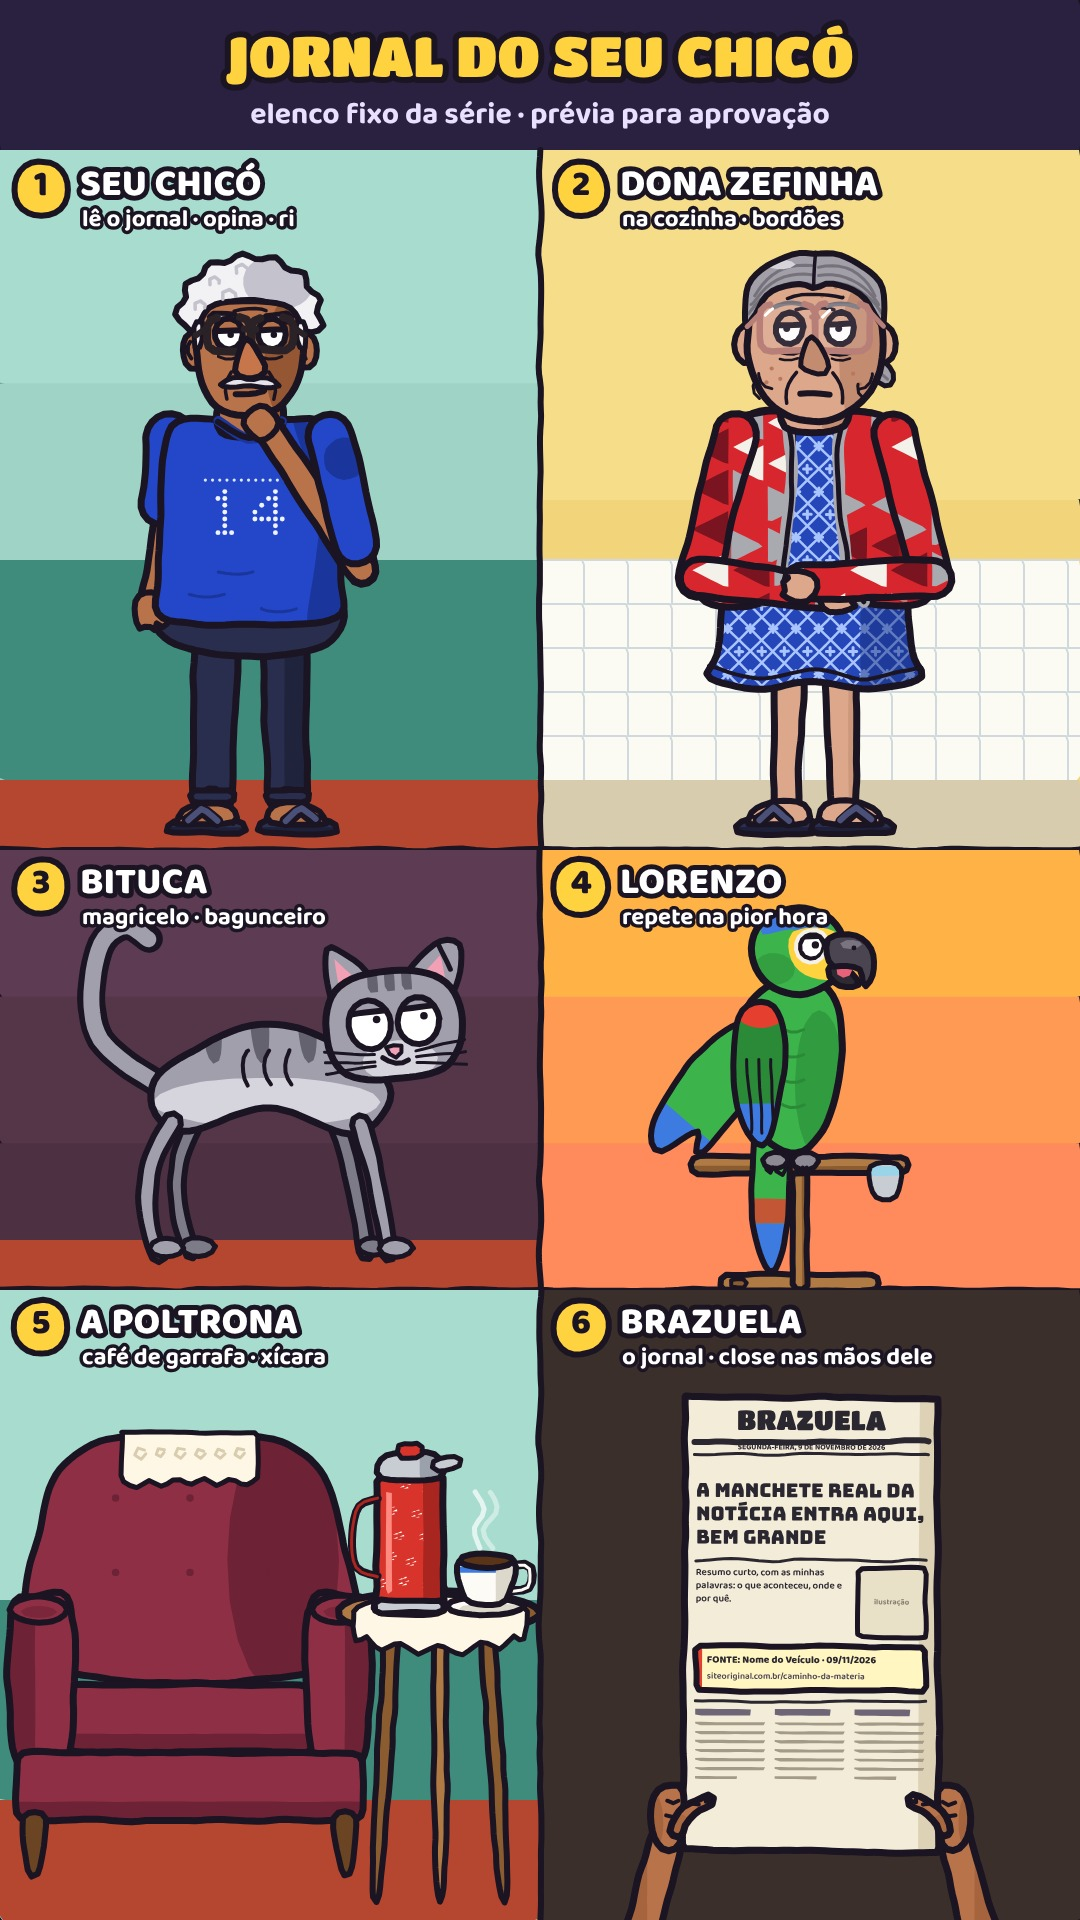
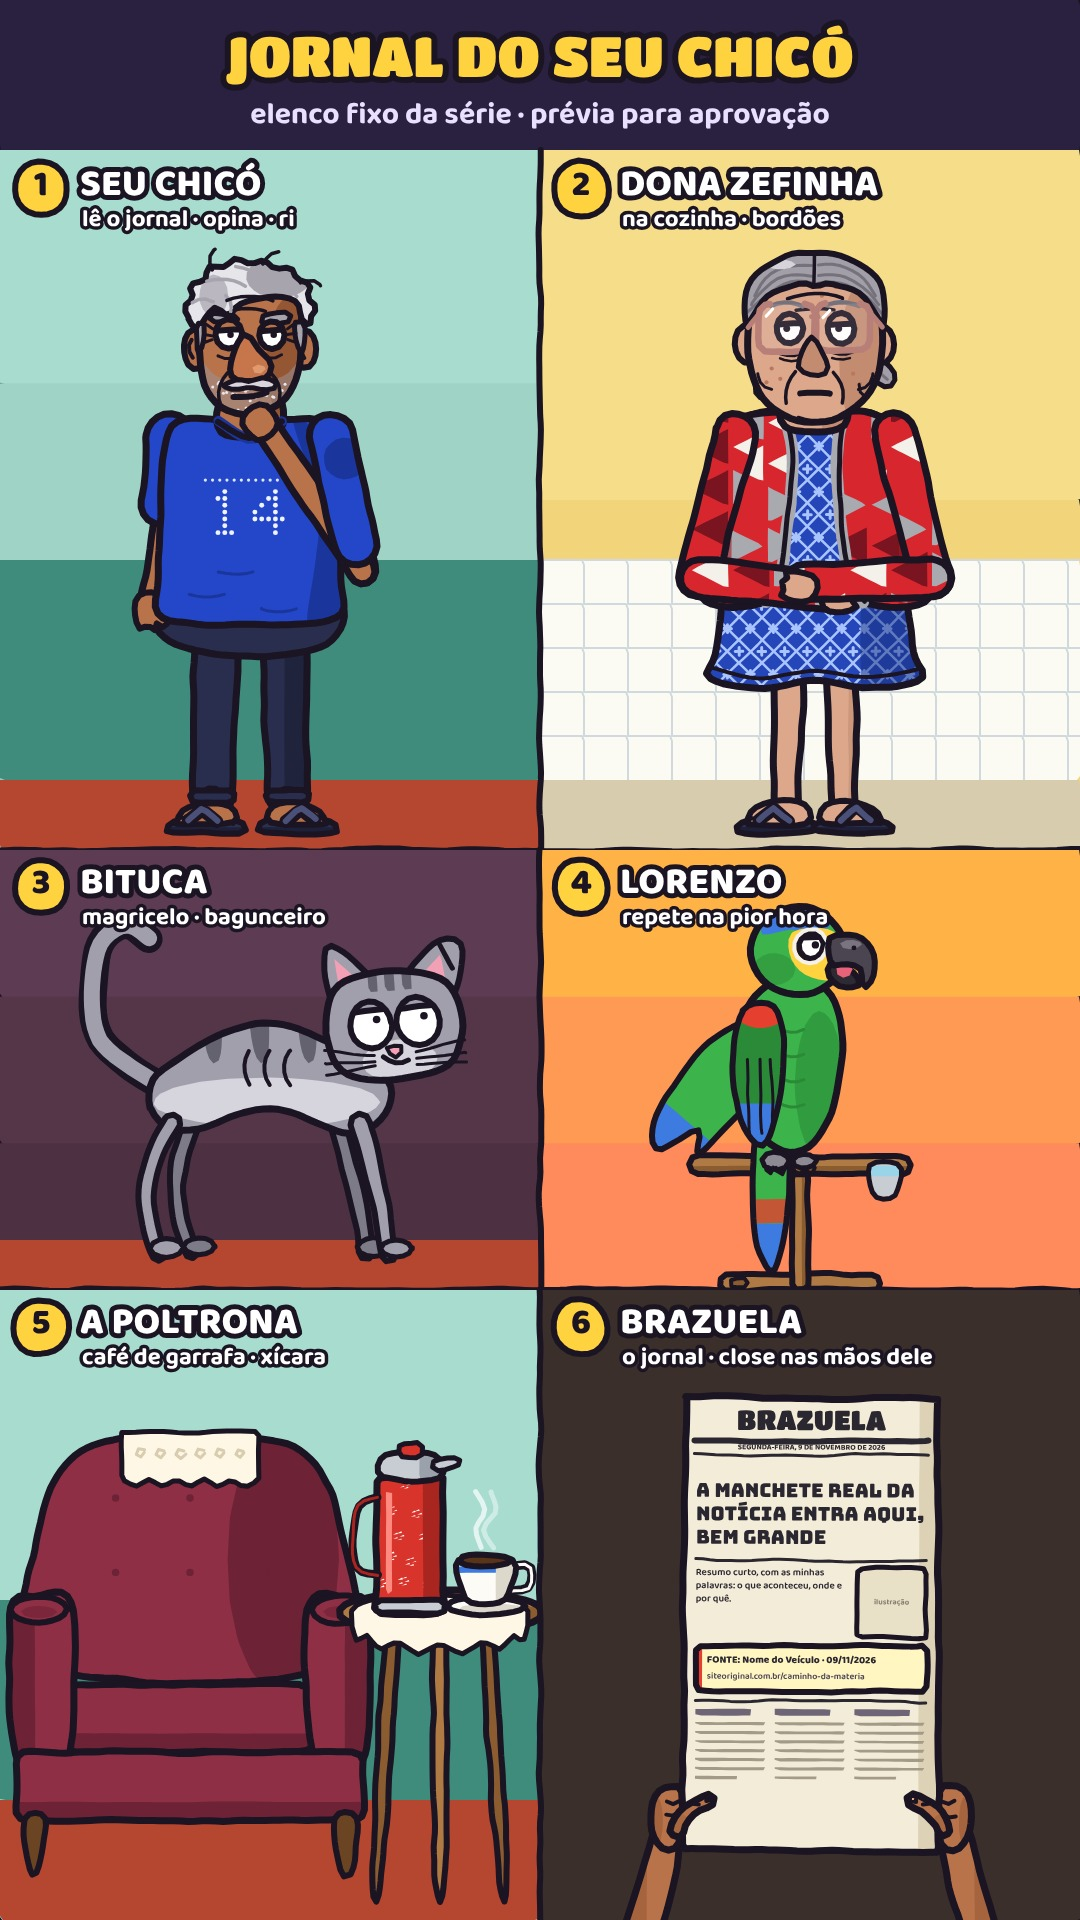
Seu Chicó redrawn from his photo: tousled grey hair, grey stubble, big nose, squinting smile
Claude-Session: https://claude.ai/code/session_01Vj4AmTyz2VXWMZUhwj9hEg

diff --git a/jornal/cast.js b/jornal/cast.js
@@ -6,8 +6,8 @@ import { INK, g, push, pop, translate, rotate, scale, shape, fillOnly, stroke, e
 
 export const PAL = {
   white: '#ffffff', mouthIn: '#4a1a2a', tongue: '#e8637a',
-  // Seu Chicó: moreno, cabelo branco cacheado, camiseta azul "14", calça azul-marinho
-  cSkin: '#b8734a', cSkinS: '#955733', cNose: '#c7764c', nail: '#e8b090', hairC: '#f2f1f4', hairCS: '#c4c2cc', stacheC: '#e6e3ea',
+  // Seu Chicó: moreno, cabelo grisalho desgrenhado, barba por fazer, camiseta azul "14", calça azul-marinho
+  cSkin: '#b8734a', cSkinS: '#955733', cNose: '#c7764c', nail: '#e8b090', hairC: '#e6e5ea', hairCS: '#a7a4ae', stacheC: '#d9d6de', stubble: '#9a8f92',
   shirt: '#2347c8', shirtS: '#1a369c', pants: '#2a2e4e', pantsS: '#1d2038', frame: '#2a2226',
   flip: '#2fb37a', flipS: '#1f8a5b', flipN: '#2c3050', flipNS: '#1d2038', strapN: '#4a5078', strap: '#f4f1ea', gold: '#e2b33c', goldS: '#b98a1f',
   // Dona Zefinha: pele morena clara, cabelo grisalho curtinho amarrado pra trás, vestido azul de treliça, casaco vermelho geométrico
@@ -113,7 +113,7 @@ function rugas(y0, wide = 1) {
   stroke(arc(0, y0 - 50, 30 * wide, 6, Math.PI * 1.2, Math.PI * 1.8, 10), 3.5);
 }
 
-// —— 1. SEU CHICÓ: cabelo branco cacheado, óculos de armação escura, bigodinho branco, camiseta azul com "14" pontilhado,
+// —— 1. SEU CHICÓ: cabelo grisalho desgrenhado, barba por fazer grisalha, narigão, sorriso de olho apertado (óculos só com P.glasses), camiseta azul com "14" pontilhado,
 //    calça social azul-marinho e chinelo de dedo. Gesto da casa: a mão no queixo, pensando na notícia ——
 // P: { x, y, s, t, face, sit, armL, armR (com e: cotovelo), mouth, look, lid, brow, tilt, paper, closed }
 export function chico(P) {
@@ -151,39 +151,46 @@ export function chico(P) {
   pop();
   shape(spline([[-44, T - 6], [0, T + 18], [44, T - 6]], false, 8), { closed: false, lw: 10, line: PAL.shirtS, fill: null });
   stroke(spline([[-44, T - 6], [0, T + 18], [44, T - 6]], false, 8), 6);
-  // cabeça
+  // cabeça (pela foto: cabelo grisalho desgrenhado, barba por fazer grisalha, narigão, sorriso de olhinho apertado)
   push(); translate(0, T - 30); rotate(P.tilt ?? 0);
-  for (const sx of [-1, 1]) shape(ell(sx * 78, -74, 17, 26, 16), { fill: PAL.cSkin, lw: 6, shade: () => stroke(arc(sx * 80, -74, 7, 12, Math.PI * .6, Math.PI * 1.4, 6), 4) });
-  shape(spline([[-76, -110], [-70, -170], [0, -186], [70, -170], [76, -110], [70, -40], [44, 4], [0, 16], [-44, 4], [-70, -40]]), {
-    fill: PAL.cSkin, lw: 7, shade: () => { fillOnly(ell(56, -60, 36, 90, 24), PAL.cSkinS, { boil: .4 }); }
+  const sm0 = (P.mouth && P.mouth.sm) ?? .5;
+  for (const sx of [-1, 1]) shape(ell(sx * 76, -76, 18, 28, 16), { fill: PAL.cSkin, lw: 6, shade: () => stroke(arc(sx * 78, -76, 7, 13, Math.PI * .6, Math.PI * 1.4, 6), 4) });
+  shape(spline([[-72, -112], [-66, -166], [0, -184], [66, -166], [72, -112], [68, -46], [44, 0], [0, 14], [-44, 0], [-68, -46]]), {
+    fill: PAL.cSkin, lw: 7, shade: () => {
+      fillOnly(ell(56, -60, 34, 90, 24), PAL.cSkinS, { boil: .4 });
+      // barba por fazer, grisalha (queixo, buço e mandíbula)
+      fillOnly(spline([[-70, -56], [-50, -40], [-30, -34], [0, -40], [30, -34], [50, -40], [70, -56], [66, 6], [0, 26], [-66, 6]]), PAL.stubble, { boil: .4, alpha: .55 });
+      for (let k = 0; k < 40; k++) { const x = (hash(k * 3.7) - .5) * 120, y = -30 + hash(k * 9.1) * 40; dot(x, y, 1.6, '#e9e6ee'); }
+    }
   });
-  // cabelo branco cacheado (nuvem de cachos)
-  const cur = []; const N = 15;
-  for (let i = 0; i <= N; i++) { const a = lerp(Math.PI * .93, Math.PI * 2.07, i / N), r = i % 2 ? 1.12 : 1; cur.push([Math.cos(a) * 92 * r, -126 + Math.sin(a) * 74 * r]); }
-  shape(spline([...cur, [76, -100], [52, -136], [0, -144], [-52, -136], [-76, -100]]), {
-    fill: PAL.hairC, lw: 6, shade: () => { fillOnly(ell(40, -170, 50, 40, 20), PAL.hairCS, { boil: .4 }); }
+  // cabelo grisalho desgrenhado, com mecha caindo na testa
+  const top = []; for (let i = 0; i <= 16; i++) { const a = lerp(Math.PI * .96, Math.PI * 2.04, i / 16), r = 1 + (i % 2 ? .1 : -.02) + (hash(i * 4.3) - .5) * .08; top.push([Math.cos(a) * 86 * r, -128 + Math.sin(a) * 68 * r]); }
+  shape(spline([...top, [84, -108], [72, -118], [66, -142], [40, -150], [10, -146], [-14, -138], [-30, -122], [-48, -134], [-62, -122], [-74, -104]]), {
+    fill: PAL.hairC, lw: 6, shade: () => {
+      fillOnly(ell(40, -176, 46, 30, 20), PAL.hairCS, { boil: .4 }); fillOnly(ell(-50, -150, 20, 30, 14), PAL.hairCS, { boil: .4, alpha: .7 });
+    }
   });
-  for (const [x, y] of [[-50, -170], [-12, -186], [26, -176], [58, -150], [-70, -136], [-30, -150], [10, -156]]) stroke(arc(x, y, 9, 8, Math.PI * .8, Math.PI * 2.1, 8), 3.5, { line: PAL.hairCS });
-  // costeletas brancas
-  for (const sx of [-1, 1]) shape(spline([[sx * 66, -114], [sx * 78, -110], [sx * 76, -76], [sx * 68, -84]]), { fill: PAL.hairC, lw: 5 });
-  rugas(-74, .9);
+  for (const q of [[[-60, -170], [-30, -180], [-6, -164]], [[-20, -190], [10, -184], [30, -166]], [[20, -178], [50, -172], [66, -150]], [[-80, -140], [-66, -150], [-52, -140]], [[-34, -150], [-24, -140], [-28, -128]]]) stroke(quad(...q, 8), 3.5, { line: PAL.hairCS });
+  for (const q of [[[-52, -186], [-60, -206], [-48, -214]], [[18, -194], [26, -214], [40, -212]], [[70, -168], [92, -176], [98, -164]]]) stroke(quad(...q, 8), 3.5);
+  // costeletas grisalhas
+  for (const sx of [-1, 1]) shape(spline([[sx * 64, -112], [sx * 76, -108], [sx * 74, -70], [sx * 66, -80]]), { fill: PAL.hairCS, lw: 5 });
+  rugas(-76, .9);
   // sobrancelhas grisalhas
   const br = P.brow ?? 0;
-  for (const sx of [-1, 1]) { push(); translate(sx * 37, -120 + br * 3); rotate(-sx * br * .22); shape(rr(-21, -6, 42, 12, 6), { fill: PAL.hairCS, lw: 5 }); pop(); }
-  eye(-30, -96, 19, 21, { lid: P.lid ?? .4, look: P.look || [0, 0], skin: PAL.cSkin, closed: P.closed });
-  eye(30, -96, 19, 21, { lid: P.lid ?? .4, look: P.look || [0, 0], skin: PAL.cSkin, closed: P.closed });
-  for (const sx of [-1, 1]) stroke(arc(sx * 30, -68, 16, 6, Math.PI * .15, Math.PI * .85, 8), 3); // bolsinhas
-  // óculos de armação escura retangular
-  for (const sx of [-1, 1]) stroke(rr(sx * 30 - 30, -120, 60, 46, 14), 8, { line: PAL.frame });
-  stroke([[-8, -104], [8, -104]], 7, { line: PAL.frame });
-  for (const sx of [-1, 1]) stroke([[sx * 60, -108], [sx * 76, -96]], 6, { line: PAL.frame });
-  // nariz
-  shape(spline([[-6, -92], [14, -66], [22, -46], [6, -36], [-18, -40], [-20, -56]]), { fill: PAL.cNose, lw: 6 });
-  // vincos do rosto
-  for (const sx of [-1, 1]) stroke(quad([sx * 26, -44], [sx * 40, -26], [sx * 34, -6]), 3.5);
-  // bigodinho branco
-  shape(spline([[-40, -26], [-20, -36], [0, -32], [20, -36], [40, -26], [22, -22], [0, -24], [-22, -22]]), { fill: PAL.stacheC, lw: 5 });
-  mouth(0, -12, 40, P.mouth || { o: 0, sm: -.1 });
+  for (const sx of [-1, 1]) { push(); translate(sx * 36, -120 + br * 3); rotate(-sx * br * .22); shape(rr(-21, -7, 42, 14, 7), { fill: PAL.hairCS, lw: 5 }); pop(); }
+  // olhos (apertam quando ele sorri) + pés de galinha
+  const lidS = clamp((P.lid ?? .4) + Math.max(0, sm0 - .4) * .45, 0, .85);
+  eye(-30, -96, 18, 20, { lid: lidS, look: P.look || [0, 0], skin: PAL.cSkin, closed: P.closed });
+  eye(30, -96, 18, 20, { lid: lidS, look: P.look || [0, 0], skin: PAL.cSkin, closed: P.closed });
+  for (const sx of [-1, 1]) { stroke(arc(sx * 30, -70, 16, 7, Math.PI * .15, Math.PI * .85, 8), 3); for (let k = -1; k <= 1; k++) stroke([[sx * 52, -96 + k * 8], [sx * 64, -98 + k * 14]], 3); }
+  if (P.glasses) { for (const sx of [-1, 1]) stroke(rr(sx * 30 - 30, -120, 60, 46, 14), 7, { line: PAL.frame }); stroke([[-8, -104], [8, -104]], 6, { line: PAL.frame }); }
+  // narigão redondo
+  shape(spline([[-8, -94], [10, -76], [28, -56], [22, -36], [0, -32], [-24, -36], [-26, -56]]), { fill: PAL.cNose, lw: 6, shade: () => fillOnly(ell(12, -48, 10, 7, 10), '#e09a70', { boil: .3 }) });
+  // vincos do sorriso
+  for (const sx of [-1, 1]) stroke(quad([sx * 30, -42], [sx * 46, -24], [sx * 40, -2]), 3.5);
+  // bigode curto grisalho
+  shape(spline([[-38, -26], [-18, -34], [0, -30], [18, -34], [38, -26], [22, -20], [0, -22], [-22, -20]]), { fill: PAL.stacheC, lw: 5, shade: () => fillOnly(rect(-40, -40, 80, 6), '#a9a6b0', { boil: .3 }) });
+  mouth(0, -10, 46, P.mouth || { o: 0, sm: .5 });
   pop();
   if (P.paper) seguraJornal(T, hip, P.t);
   else limb(shF, armF, opt);

diff --git a/SERIE-JORNAL.md b/SERIE-JORNAL.md
@@ -6,7 +6,7 @@ Formato novo, separado do padrão de curiosidades (PADRAO.md). Mesmo estilo visu
 A pessoa manda uma **notícia** (de preferência o link; print também serve). Um senhorzinho lê o jornal em casa, comenta com humor, a esposa e os bichos zoam, e no fim ele vai dormir.
 
 ## Elenco fixo (desenhar uma vez, reaproveitar em todo episódio)
-- **Seu Chicó** (o senhor; desenhado a partir da foto de referência da pessoa): cabelo branco cacheado, óculos de armação escura, bigodinho branco, camiseta azul com o "14" pontilhado, calça azul-marinho e chinelo de dedo. Gesto típico: a mão no queixo. Sentado na poltrona, lê o jornal todo dia, dá opiniões engraçadas e ri.
+- **Seu Chicó** (o senhor; rosto desenhado pela foto dele, roupa pela primeira referência): cabelo grisalho desgrenhado com mecha na testa, barba grisalha por fazer, bigode curto, narigão, sorriso que aperta os olhos; camiseta azul com o "14" pontilhado, calça azul-marinho e chinelo de dedo. Gesto típico: a mão no queixo. Sentado na poltrona, lê o jornal todo dia, dá opiniões engraçadas e ri.
 - **Dona Zefinha** (a esposa; mesma foto de referência): cabelo grisalho repartido no meio e amarrado pra trás bem curto, pele morena clara com sardinhas, óculos grandes quadrados de armação rosada, vestido azul com estampa de treliça, casaco vermelho com desenhos geométricos e chinelo azul-marinho. Fica de braços cruzados e cara séria. Está sempre na cozinha fazendo alguma coisa. Se intromete de vez em quando com bordões: "bem que te avisei", "né pussive", "rapaz, o mundo tá de cabeça pra baixo mesmo" e outros a inventar.
 - **Bituca** (gato magricelo): faz bagunça e estressa o senhor (derruba a xícara etc.).
 - **Lorenzo** (papagaio): repete palavras para zoar o senhor no pior momento.
